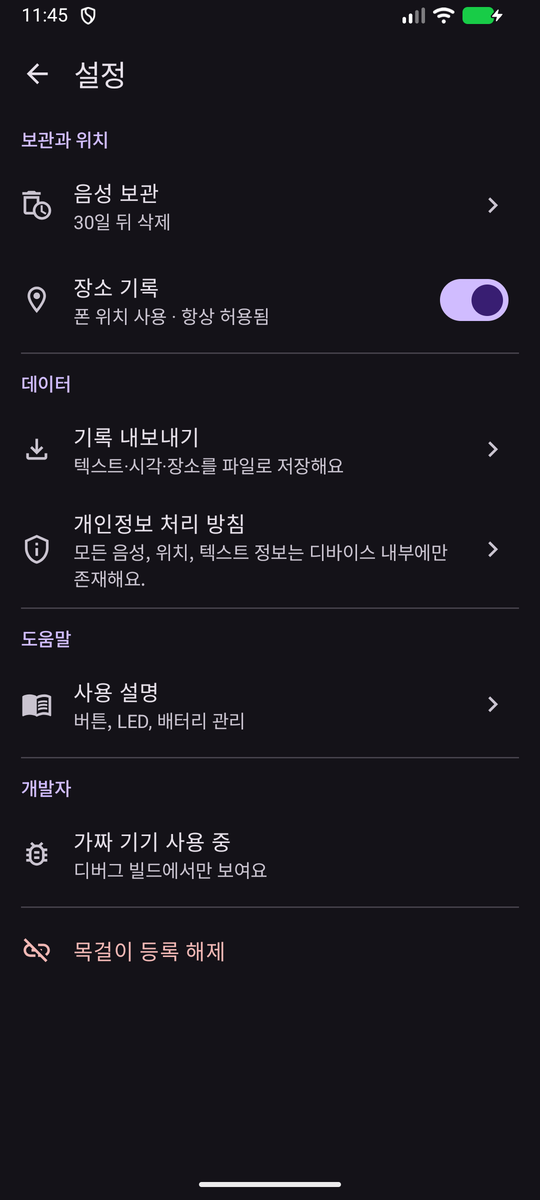
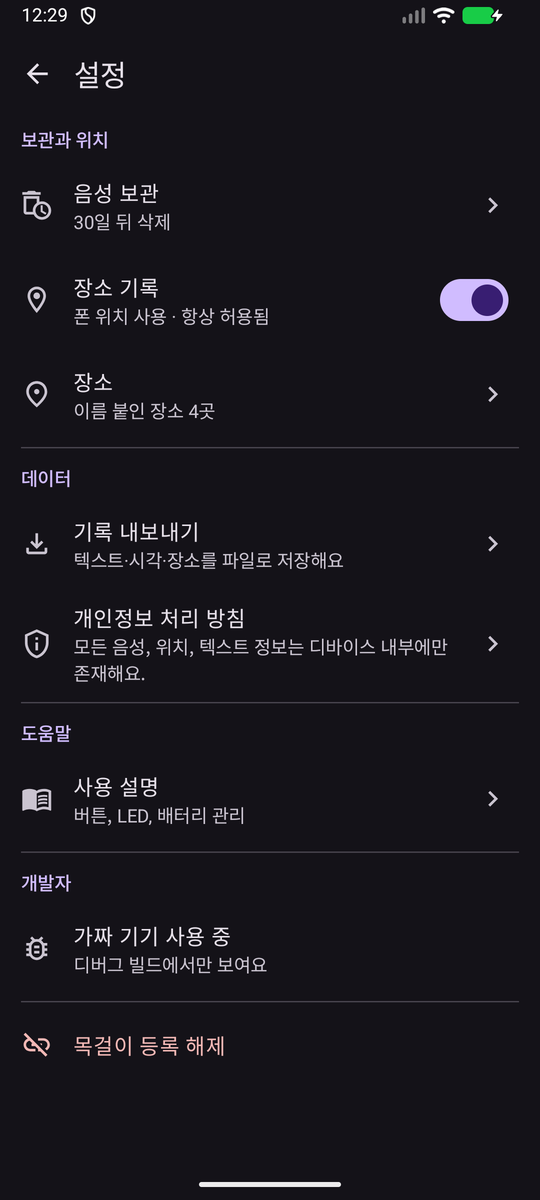
android: real clock labels across merged parts, screenshots
Sentence, bookmark and search-hit times in a merged entry map each offset
to its own segment's start (parts were recorded with gaps). Emulator
screenshots of merged entries, standalone bookmarks and named places.

diff --git a/android/app/src/main/java/dev/owl/app/data/TimelineRepositoryImpl.kt b/android/app/src/main/java/dev/owl/app/data/TimelineRepositoryImpl.kt
@@ -68,6 +68,7 @@ class TimelineRepositoryImpl(
                 bookmarkOffsetsMs = marks.map { entry.offsetOf(it) },
                 audioFiles = entry.audioFiles(),
                 audioDeleteAtMs = entry.parts.mapNotNull { RetentionRules.deleteAt(policy, it) }.minOrNull(),
+                partStarts = entry.partStarts(),
             )
         }
     }
@@ -89,7 +90,8 @@ class TimelineRepositoryImpl(
                 .sortedWith(compareByDescending<Pair<SentenceEntity, Pair<Entry, Int>>> { it.second.first.sortTimeMs }.thenBy { it.second.first.offsetOfSentence(it.first) })
                 .map { (sentence, pair) ->
                     val (e, n) = pair
-                    SearchHit(e.toItem(n), e.sentence(sentence))
+                    val hit = e.sentence(sentence)
+                    SearchHit(e.toItem(n), hit, e.clockAt(hit.startMs))
                 }
         }
     }
@@ -205,6 +207,14 @@ internal class Entry(val key: Long, val rows: List<SegmentRow>) {
             s.filePath?.let(::File)?.takeIf { !s.audioDeleted && s.state != SegmentState.RECEIVING && it.exists() }
         }
         return if (files.any { it == null }) emptyList() else files.filterNotNull()
+    }
+
+    fun partStarts(): List<Pair<Long, Long?>> = parts.mapIndexed { i, p -> starts[i] to p.startUnixMs }
+
+    /** Real time at entry offset [offsetMs]; parts were recorded with gaps, so map per part. */
+    fun clockAt(offsetMs: Long): Long? {
+        val i = starts.dropLast(1).indexOfLast { it <= offsetMs }.coerceAtLeast(0)
+        return parts[i].startUnixMs?.plus(offsetMs - starts[i])
     }
 
     private fun startOf(segmentRowId: Long): Long = starts[parts.indexOfFirst { it.rowId == segmentRowId }.coerceAtLeast(0)]

diff --git a/android/app/src/main/java/dev/owl/app/ui/entry/EntryScreen.kt b/android/app/src/main/java/dev/owl/app/ui/entry/EntryScreen.kt
@@ -423,17 +423,14 @@ private fun EntryBody(
                 items(lines, key = { if (it is EntryLine.Text) "s${it.sentence.index}" else "m${(it as EntryLine.Mark).n}" }) { line ->
                     when (line) {
                         is EntryLine.Mark -> BookmarkMarker(
-                            if (item.startUnixMs != null) formats.hms(item.startUnixMs + line.offsetMs) else formats.clock(line.offsetMs),
+                            detail.clockAt(line.offsetMs)?.let { formats.hms(it) } ?: formats.clock(line.offsetMs),
                         )
                         is EntryLine.Text -> {
                             val isCurrent = detail.sentences.getOrNull(current)?.index == line.sentence.index
                             SentenceRow(
                                 sentence = line.sentence,
-                                label = if (item.startUnixMs != null) {
-                                    formats.hms(item.startUnixMs + line.sentence.startMs)
-                                } else {
-                                    formats.clock(line.sentence.startMs)
-                                },
+                                label = detail.clockAt(line.sentence.startMs)?.let { formats.hms(it) }
+                                    ?: formats.clock(line.sentence.startMs),
                                 current = isCurrent,
                                 playing = isCurrent && player.playing,
                                 onClick = { onSeek(line.sentence.startMs) },

diff --git a/android/app/src/main/java/dev/owl/app/model/Models.kt b/android/app/src/main/java/dev/owl/app/model/Models.kt
@@ -103,7 +103,18 @@ data class EntryDetail(
     val audioFiles: List<File>,
     /** When retention will delete the audio, null if never (preserved / policy "지우지 않음"). */
     val audioDeleteAtMs: Long?,
-)
+    /**
+     * (entry offset, real start time) of each part, for [clockAt]. Offsets are continuous but the
+     * parts were recorded with gaps between them, so "start + offset" would drift.
+     */
+    val partStarts: List<Pair<Long, Long?>> = emptyList(),
+) {
+    /** Real time at entry offset [offsetMs], or null when the time is unknown. */
+    fun clockAt(offsetMs: Long): Long? {
+        val part = partStarts.lastOrNull { it.first <= offsetMs } ?: return item.startUnixMs?.plus(offsetMs)
+        return part.second?.plus(offsetMs - part.first)
+    }
+}
 
 enum class SearchPeriod { ALL, TODAY, LAST_7_DAYS, LAST_30_DAYS }
 
@@ -120,6 +131,8 @@ data class SearchHit(
     val item: TimelineItem,
     /** The matching sentence; null if the hit came from filters only (empty query). */
     val sentence: Sentence?,
+    /** Real time of [sentence] (or of the entry start), null if unknown. */
+    val atUnixMs: Long? = item.startUnixMs,
 )
 
 /** PRD A14 / decisions.md #11. Default is [DAYS_30]. */

diff --git a/android/app/src/main/java/dev/owl/app/ui/search/SearchScreen.kt b/android/app/src/main/java/dev/owl/app/ui/search/SearchScreen.kt
@@ -406,8 +406,8 @@ private fun BookmarkResultRow(bookmark: StandaloneBookmark, formats: OwlFormats)
 @Composable
 private fun SearchResultRow(hit: SearchHit, query: String, highlight: SpanStyle, formats: OwlFormats, onClick: () -> Unit) {
     val item = hit.item
-    val start = item.startUnixMs
-    val time = if (start != null) formats.hm(start + (hit.sentence?.startMs ?: 0)) else stringResource(R.string.time_unknown)
+    val at = hit.atUnixMs
+    val time = if (at != null) formats.hm(at) else stringResource(R.string.time_unknown)
     val meta = stringResource(R.string.meta_time_place, time, formats.place(item.place))
     val body = hit.sentence?.text ?: item.preview.orEmpty()
     Column(

diff --git a/android/docs/screenshots/README.md b/android/docs/screenshots/README.md
@@ -23,6 +23,19 @@
 
 타임라인의 "39.2373, -123.1500"은 에뮬레이터 기본 GPS 위치예요. 이름 붙은 장소가 없을 때 좌표로 보이는 경우예요(역지오코딩 안 함, N8).
 
+## 타임라인 항목 합치기, 녹음 밖 북마크, 장소 이름 (2026-11-01)
+
+| 화면 | 라이트 | 다크 |
+|---|---|---|
+| 타임라인 · 19:15 항목 = 세그먼트 2개(150초 + 90초, 간격 40초) 합침, 21:05·21:11 녹음 밖 북마크, "알 수 없는 장소" | [timeline-entries-light](timeline-entries-light.png) | |
+| 타임라인 · 22:41 기록에서 "Dorm 302"로 이름 붙인 뒤 (근처 북마크에도 적용) | [timeline-places-light](timeline-places-light.png) | [timeline-places-dark](timeline-places-dark.png) |
+| 기록 상세 · 이 장소 이름 붙이기 | [entry-name-place-light](entry-name-place-light.png) | |
+| 기록 상세 · 합친 항목 (4:00, 경계 뒤 문장 시각 19:17:14 → 19:18:03) | [entry-merged-light](entry-merged-light.png) | [entry-merged-dark](entry-merged-dark.png) |
+| 검색 · 북마크만 (녹음 밖 북마크 포함) | [search-bookmarks-light](search-bookmarks-light.png) | [search-bookmarks-dark](search-bookmarks-dark.png) |
+| 설정 › 장소 | [places-light](places-light.png) | [places-dark](places-dark.png) |
+
+장소 이름은 adb로 한글을 입력할 수 없어서 영어("Dorm 302")로 넣었어요.
+
 ## 동기화 확인 로그
 
 전체 동기화 (첫 등록, 시드 데이터):
